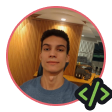
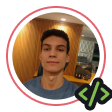
Ajusting styles and spaces in intro section

Changed region(s): [[0.0536, 0.0536, 0.9375, 0.9375]]

diff --git a/styles/spaces/intro.css b/styles/spaces/intro.css
@@ -1,0 +1,76 @@
+#intro {
+  display: flex;
+  flex-direction: column;
+  align-items: center;
+  
+  main {
+    
+    width: 76%;
+    display: flex;
+    flex-direction: column;
+    align-items: center;
+
+    gap: 5rem;
+
+    margin: 7.5rem 0 5.875rem;
+    
+    header {
+      width: 65%;
+      display: flex;
+      flex-direction: column;
+      align-items: center;
+
+      gap: 3.5rem;
+      
+      #dev-text {
+        display: flex;
+        flex-direction: column;
+        align-items: center;
+
+        #dev-title {
+          display: flex;
+          flex-direction: column;
+          align-items: center;
+
+          gap: 0.5rem;
+        }
+        
+        p {
+          margin-top: 1.25rem;
+          text-align: center;
+          flex-wrap: wrap;
+          width: 42.5rem;
+        }
+      }
+
+      img {
+        width: 7rem;
+        height: 7rem;
+        border: var(--gray-500).5rem;
+      }
+    }
+
+    #dev-tags {
+      list-style-type: none;
+      width: 72.25%;
+      display: flex;
+      justify-content: center;
+      gap: 1rem;
+      
+      .tags {
+        display: flex;
+        align-items: center;
+
+        padding: 0.5rem 1rem;
+        border-radius: 9999px;
+
+        gap: 0.5rem;
+
+        img {
+          width: 1.5rem;
+          height: 1.5rem;
+        }
+      }
+    }
+  }
+}

diff --git a/styles/visual-styles/intro.css b/styles/visual-styles/intro.css
@@ -1,3 +1,11 @@
+#intro {
+  background-color: var(--gray-500);
+  background-image: url(../../assets/images/Background_Intro.png);
+  background-size: cover;
+  background-repeat: no-repeat;
+
+}
+
 #dev-text p{
   font: var(--text-sm);
   color: var(--gray-300);
@@ -23,4 +31,8 @@
 #dev-tags {
   font: var(--text-md);
   color: var(--gray-200);
+  
+  .tags {
+    background-color: var(--gray-400);
+  }
 }

diff --git a/index.html b/index.html
@@ -9,7 +9,7 @@
   <title>DEV | Isaac Monteiro</title>
 
   <link href="https://fonts.googleapis.com/css2?family=Asap:ital,wght@0,100..900;1,100..900&family=Inconsolata&family=Maven+Pro&display=swap" rel="stylesheet">
-  <link rel="stylesheet" href="styles/index.css">
+  <link rel="stylesheet" href="styles/main-index.css">
 </head>
 <body>
   

diff --git a/styles/main-index.css b/styles/main-index.css
@@ -1,0 +1,2 @@
+@import url(visual-styles/index.css);
+@import url(spaces/index.css);

diff --git a/styles/spaces/index.css b/styles/spaces/index.css
@@ -1,0 +1,1 @@
+@import url(intro.css);
